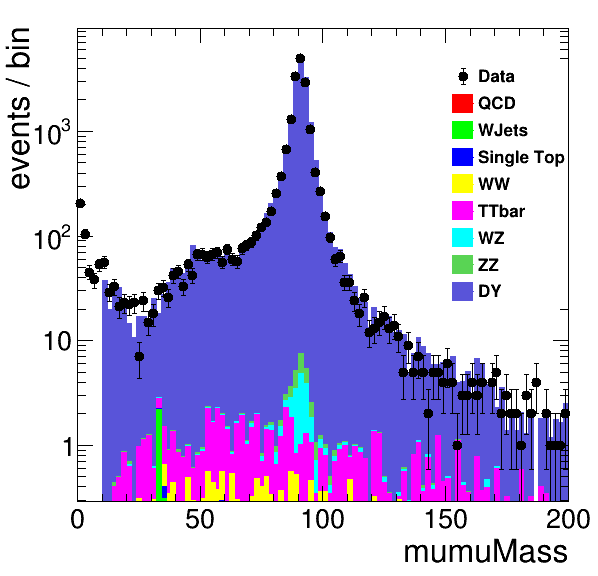
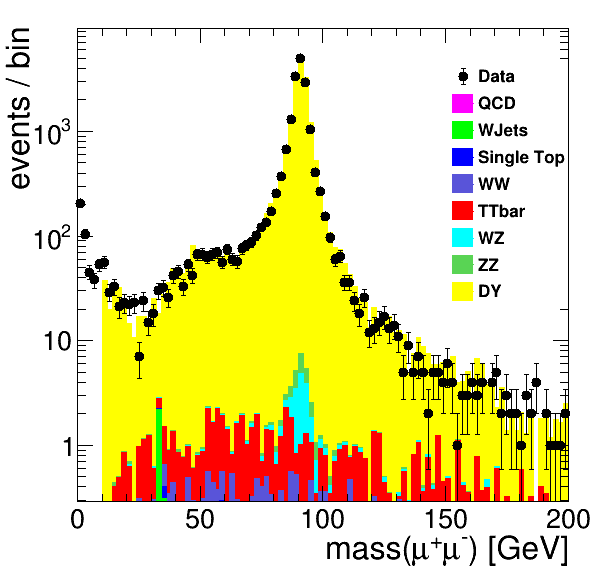
colors, cleaning

diff --git a/code/C/analysis.C b/code/C/analysis.C
@@ -30,7 +30,7 @@ using namespace std;
 float fraction = 1; // fraction of events to proccess for each sample
 string files[]  = {"data.root", "qcd.root", "wjets.root", "single_top.root", "ww.root", "ttbar.root",  "wz.root", "zz.root", "dy.root"};
 string labels[] = {"Data", "QCD", "WJets", "Single Top", "WW", "TTbar", "WZ", "ZZ",  "DY"};
-int colors[] =  {1,2,3,4,5,6,7,8,9};
+int colors[] =  {1, 6, 3, 4, 9, 2, 7, 8, 5};
 string path = "http://theofil.web.cern.ch/theofil/cmsod/files/";
 
 // pointers to file and tree objects
@@ -160,15 +160,6 @@ TLegend *l_mumuMass;
 void analysis()
 { 
 
-//    for(auto color: colors)
-//    {
-//      cout << color << endl; 
-//    }
-//    cout << endl;
-//    for(int i = 0; i < nFiles; ++i) 
-//    {
-//	cout << colors[i] << endl;
-//    }
     setTDRStyle();
     gStyle->SetOptTitle(0);
 
@@ -199,7 +190,7 @@ void analysis()
         h_mumuMass[i]->SetLineColor(colors[i]);
         h_mumuMass[i]->GetXaxis()->SetNdivisions(509);
         h_mumuMass[i]->GetYaxis()->SetNdivisions(509);
-        h_mumuMass[i]->GetXaxis()->SetTitle("mumuMass");
+        h_mumuMass[i]->GetXaxis()->SetTitle("mass(#mu^{+}#mu^{-}) [GeV]");
         h_mumuMass[i]->GetYaxis()->SetTitle("events / bin");
 
     }
@@ -212,7 +203,6 @@ void analysis()
    
     for(int i = 0; i < nFiles; ++i) 
     {
-//        if(i==1 || i==2 || i==3 || i == 4 || i==5 || i==6)continue;
 	cout <<"opening "<< files[i] << " from path " << path << endl;   
 
      	fp = TFile::Open( (path + files[i]).c_str() , "READ");
